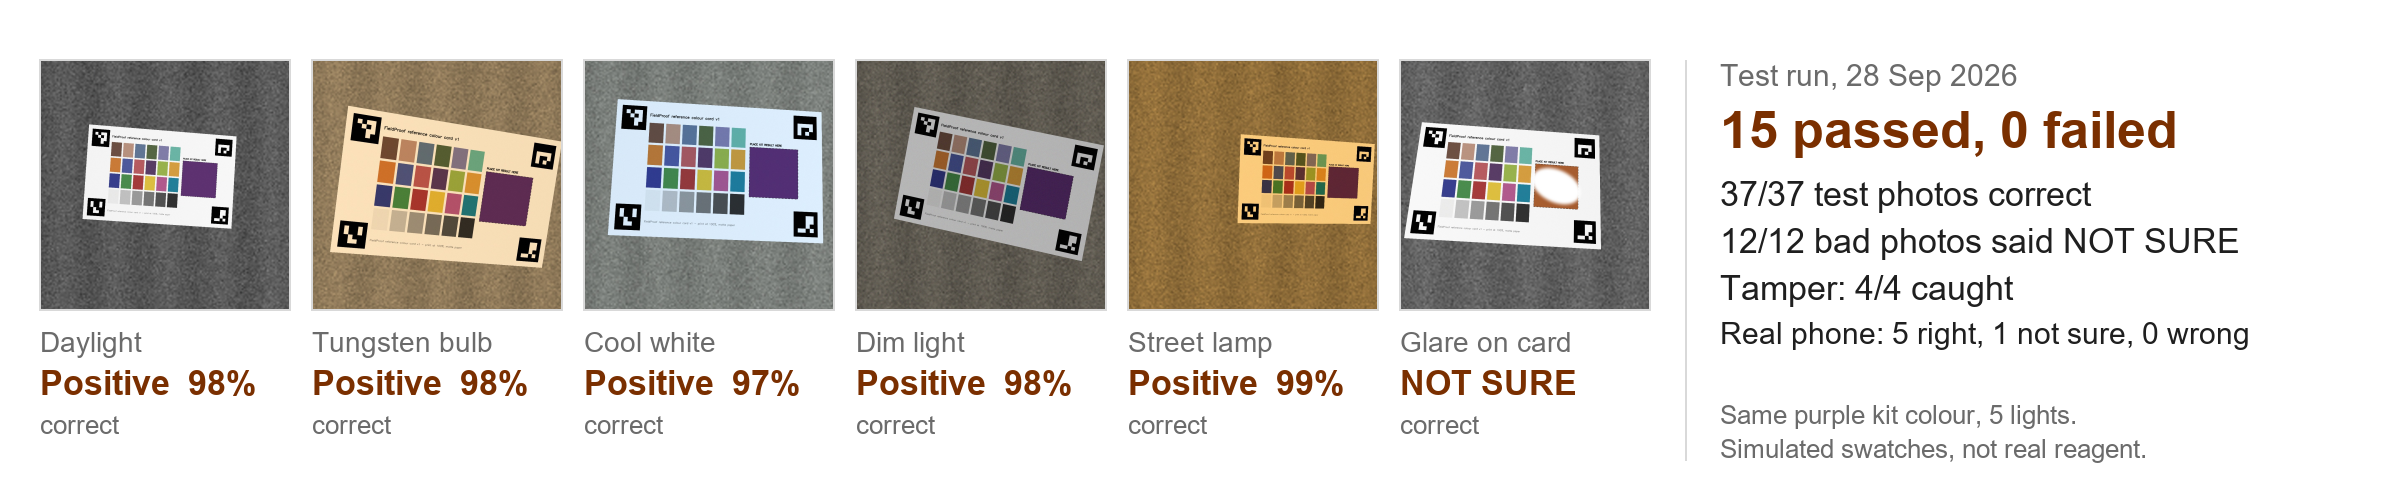
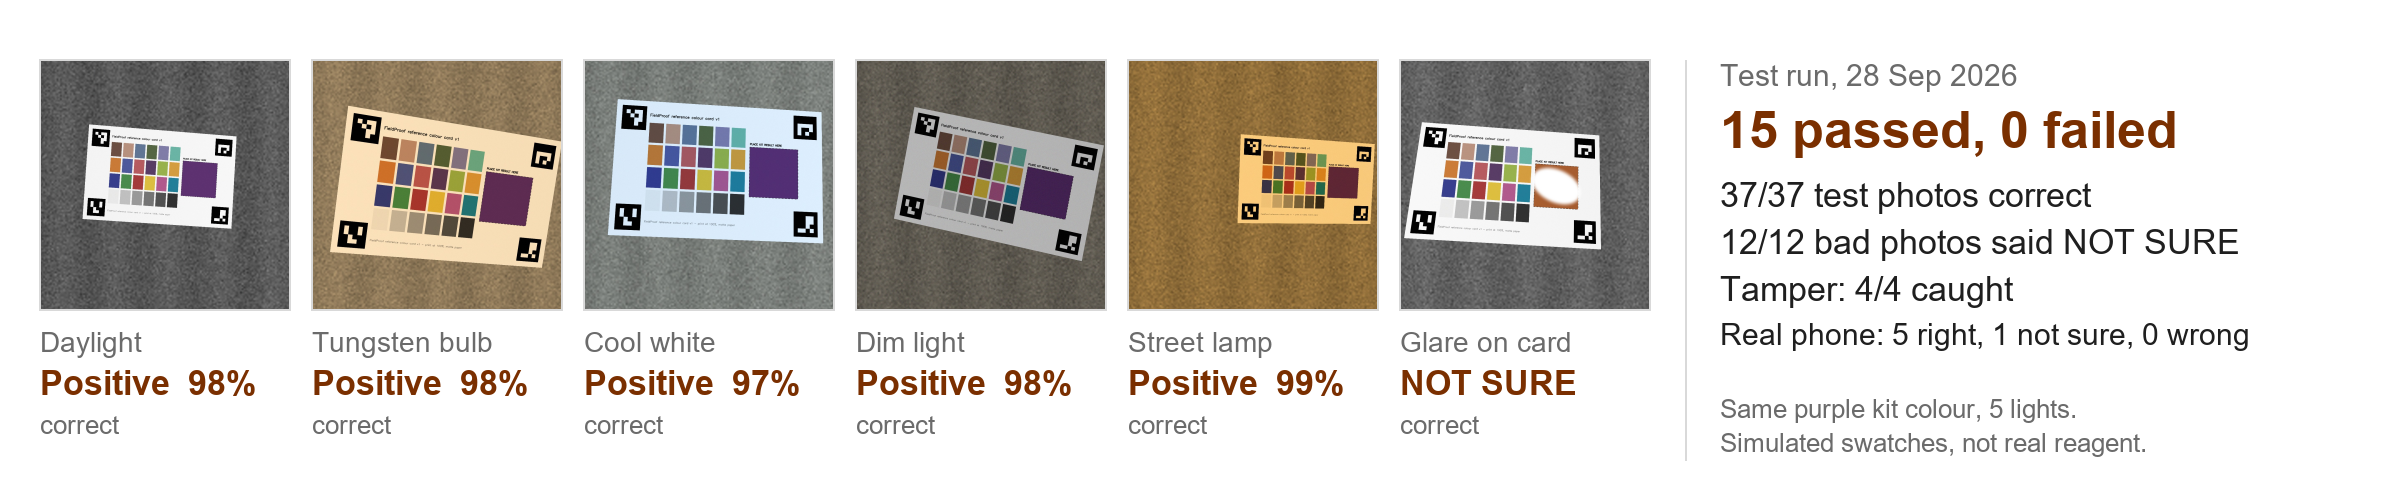
Add vertical layout of the measured-results proof image

diff --git a/docs/ppt_content/evidence/make_proof_strip.py b/docs/ppt_content/evidence/make_proof_strip.py
@@ -30,37 +30,65 @@ for key, name in lights:
     sel.append((it, name))
 sel.append((pick(lambda i: 'glare' in str(i.get('kind', '')).lower() or 'glare' in str(i.get('file', '')).lower()), 'Glare on card'))
 
-W, H = 2400, 500
-img = Image.new('RGB', (W, H), 'white'); d = ImageDraw.Draw(img)
+VERTICAL = '--vertical' in sys.argv
 F = lambda s, b=False: ImageFont.truetype('C:/Windows/Fonts/' + ('arialbd.ttf' if b else 'arial.ttf'), s)
 ACC, INK, GREY, RULE = (0x7A, 0x2F, 0x00), (0x1F, 0x1F, 0x1F), (0x6B, 0x6B, 0x6B), (0xD9, 0xD9, 0xD9)
-tw, th, x0, y0, gap = 250, 250, 40, 60, 22
 results = []
-for i, (it, name) in enumerate(sel):
+thumbs = []
+for it, name in sel:
     raw = (TI / it['file']).read_bytes()
     r = ce.classify(raw, prof(it.get('kit', 'DEMO-MARQUIS-SIM')))
     results.append((it['file'], name, r['result'], r['confidence'], it['expected']))
     bgr = cv2.imdecode(np.frombuffer(raw, np.uint8), cv2.IMREAD_COLOR)
-    h, w = bgr.shape[:2]; s = min(h, w); crop = bgr[(h - s)//2:(h + s)//2, (w - s)//2:(w + s)//2]
-    th_img = Image.fromarray(cv2.cvtColor(cv2.resize(crop, (tw, th), interpolation=cv2.INTER_AREA), cv2.COLOR_BGR2RGB))
-    x = x0 + i * (tw + gap)
-    img.paste(th_img, (x, y0)); d.rectangle([x - 1, y0 - 1, x + tw, y0 + th], outline=RULE, width=2)
-    d.text((x, y0 + th + 16), name, font=F(28), fill=GREY)
-    ans = 'NOT SURE' if r['result'] == 'INCONCLUSIVE' else r['result'].title()
-    tail = '' if r['result'] == 'INCONCLUSIVE' else f"  {r['confidence']}%"
-    d.text((x, y0 + th + 54), ans + tail, font=F(34, True), fill=ACC if r['result'] == it['expected'] else (0xC0, 0, 0))
-    d.text((x, y0 + th + 100), 'correct' if r['result'] == it['expected'] else 'WRONG', font=F(26), fill=GREY)
-d.line([(1685, 60), (1685, 460)], fill=RULE, width=2)
-tx = 1720
-d.text((tx, 58), 'Test run, ' + time.strftime('%d %b %Y'), font=F(30), fill=GREY)
-d.text((tx, 100), '15 passed, 0 failed', font=F(52, True), fill=ACC)
-d.text((tx, 175), '37/37 test photos correct', font=F(34), fill=INK)
-d.text((tx, 222), '12/12 bad photos said NOT SURE', font=F(34), fill=INK)
-d.text((tx, 269), 'Tamper: 4/4 caught', font=F(34), fill=INK)
-d.text((tx, 316), 'Real phone: 5 right, 1 not sure, 0 wrong', font=F(30), fill=INK)
-d.text((tx, 400), 'Same purple kit colour, 5 lights.', font=F(26), fill=GREY)
-d.text((tx, 434), 'Simulated swatches, not real reagent.', font=F(26), fill=GREY)
-out = ROOT / 'docs' / 'ppt_content' / 'evidence' / 'proof_strip.png'
+    h, w = bgr.shape[:2]; s_ = min(h, w); crop = bgr[(h - s_)//2:(h + s_)//2, (w - s_)//2:(w + s_)//2]
+    thumbs.append((it, name, r, crop))
+
+def tile(d, img, x, y, tw, it, name, r, fs):
+    img.paste(Image.fromarray(cv2.cvtColor(cv2.resize(r_crop(it), (tw, tw), interpolation=cv2.INTER_AREA), cv2.COLOR_BGR2RGB)), (x, y))
+
+if not VERTICAL:
+    W, H = 2400, 500
+    img = Image.new('RGB', (W, H), 'white'); d = ImageDraw.Draw(img)
+    tw, x0, y0, gap = 250, 40, 60, 22
+    for i, (it, name, r, crop) in enumerate(thumbs):
+        x = x0 + i * (tw + gap)
+        img.paste(Image.fromarray(cv2.cvtColor(cv2.resize(crop, (tw, tw), interpolation=cv2.INTER_AREA), cv2.COLOR_BGR2RGB)), (x, y0))
+        d.rectangle([x - 1, y0 - 1, x + tw, y0 + tw], outline=RULE, width=2)
+        ok = r['result'] == it['expected']
+        d.text((x, y0 + tw + 16), name, font=F(28), fill=GREY)
+        ans = 'NOT SURE' if r['result'] == 'INCONCLUSIVE' else r['result'].title() + f"  {r['confidence']}%"
+        d.text((x, y0 + tw + 54), ans, font=F(34, True), fill=ACC if ok else (0xC0, 0, 0))
+        d.text((x, y0 + tw + 100), 'correct' if ok else 'WRONG', font=F(26), fill=GREY)
+    d.line([(1685, 60), (1685, 460)], fill=RULE, width=2)
+    tx, ty, big, mid, small = 1720, 58, 52, 34, 26
+else:
+    W, H = 1000, 2600
+    img = Image.new('RGB', (W, H), 'white'); d = ImageDraw.Draw(img)
+    tw, x0, y0, gapx, rowh = 430, 50, 50, 40, 560
+    for i, (it, name, r, crop) in enumerate(thumbs):
+        x = x0 + (i % 2) * (tw + gapx); y = y0 + (i // 2) * rowh
+        img.paste(Image.fromarray(cv2.cvtColor(cv2.resize(crop, (tw, tw), interpolation=cv2.INTER_AREA), cv2.COLOR_BGR2RGB)), (x, y))
+        d.rectangle([x - 1, y - 1, x + tw, y + tw], outline=RULE, width=2)
+        ok = r['result'] == it['expected']
+        d.text((x, y + tw + 14), name, font=F(32), fill=GREY)
+        ans = 'NOT SURE' if r['result'] == 'INCONCLUSIVE' else r['result'].title() + f"  {r['confidence']}%"
+        d.text((x, y + tw + 56), ans + ('  - correct' if ok else '  - WRONG'), font=F(36, True), fill=ACC if ok else (0xC0, 0, 0))
+    ly = y0 + 3 * rowh + 10
+    d.line([(x0, ly), (W - x0, ly)], fill=RULE, width=2)
+    tx, ty, big, mid, small = x0, ly + 30, 58, 36, 28
+
+d.text((tx, ty), 'Test run, ' + time.strftime('%d %b %Y'), font=F(30), fill=GREY)
+d.text((tx, ty + 42), '15 passed, 0 failed', font=F(big, True), fill=ACC)
+lines = ['37/37 test photos correct', '12/12 bad photos said NOT SURE', 'Tamper: 4/4 caught', 'Real phone: 5 right, 1 not sure, 0 wrong']
+yy = ty + 42 + big + 24
+for ln in lines:
+    d.text((tx, yy), ln, font=F(mid if not ln.startswith('Real') or VERTICAL else 30), fill=INK); yy += mid + 13
+yy += 30
+d.text((tx, yy), 'Same purple kit colour, 5 lights.', font=F(small), fill=GREY)
+d.text((tx, yy + small + 8), 'Simulated swatches, not real reagent.', font=F(small), fill=GREY)
+if VERTICAL:
+    img = img.crop((0, 0, W, min(H, yy + 2 * small + 60)))
+out = ROOT / 'docs' / 'ppt_content' / 'evidence' / ('proof_vertical.png' if VERTICAL else 'proof_strip.png')
 img.save(out)
 for r in results: print(r)
 print('saved', out)
